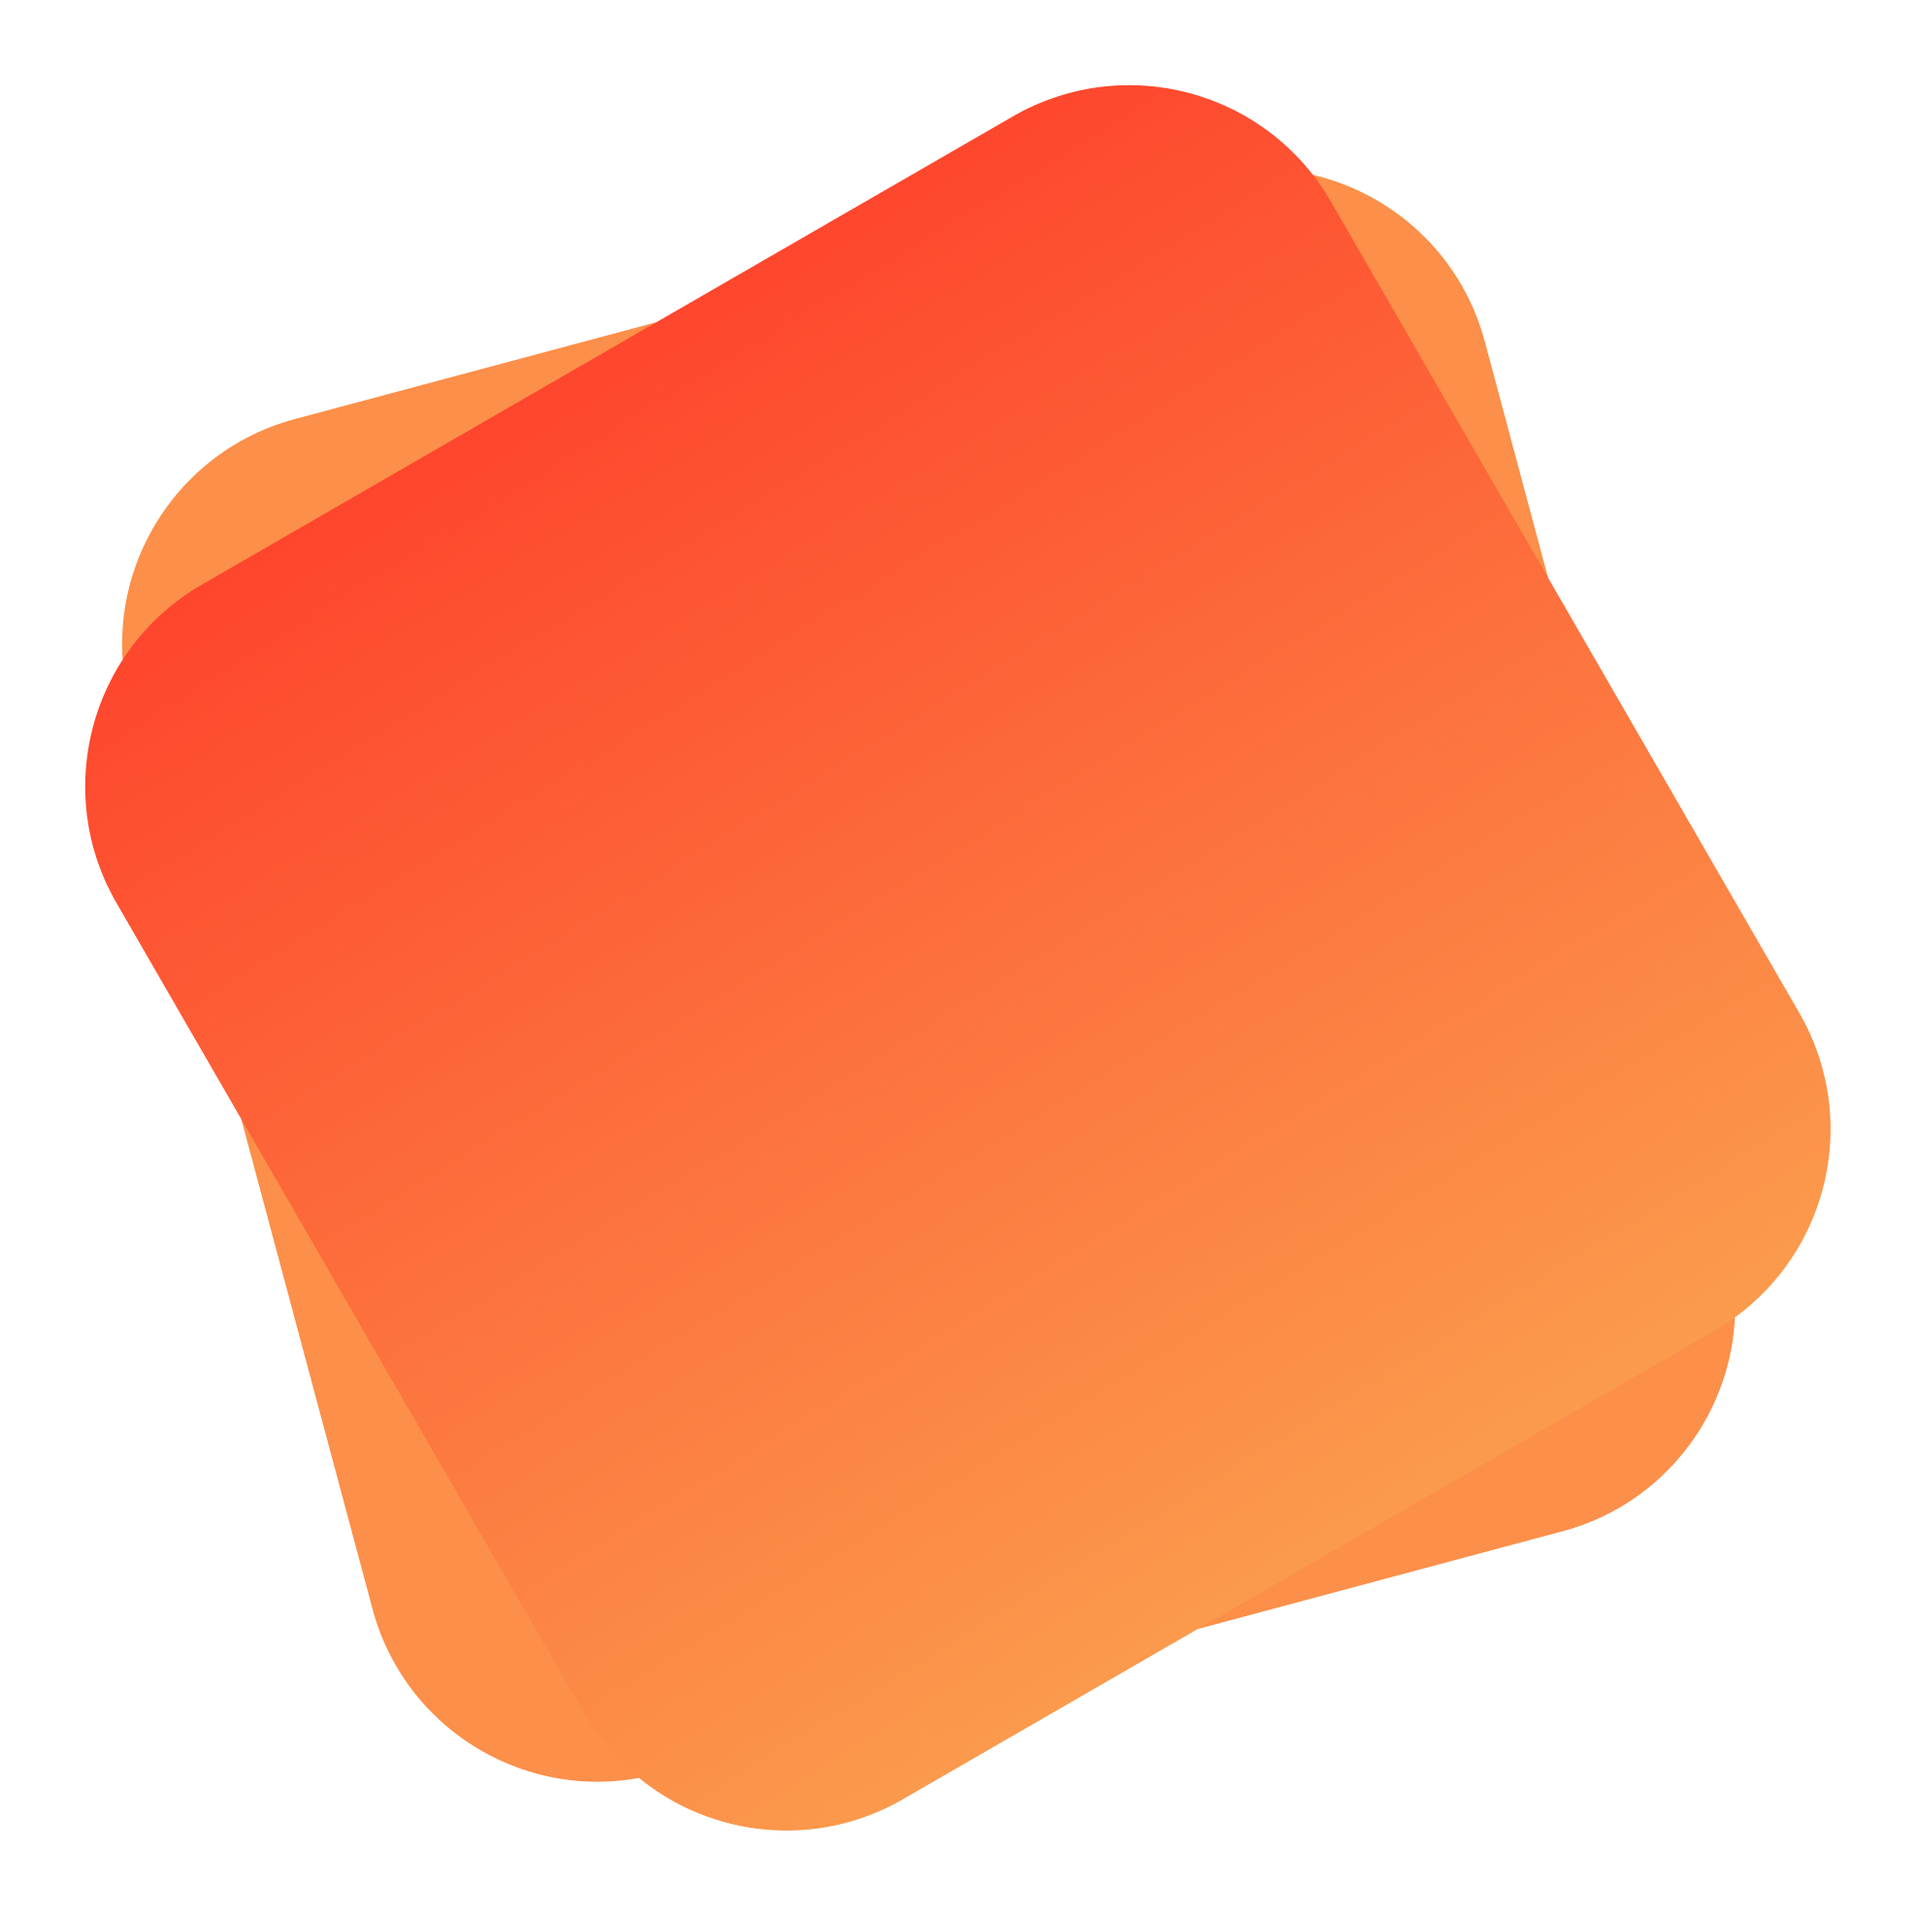
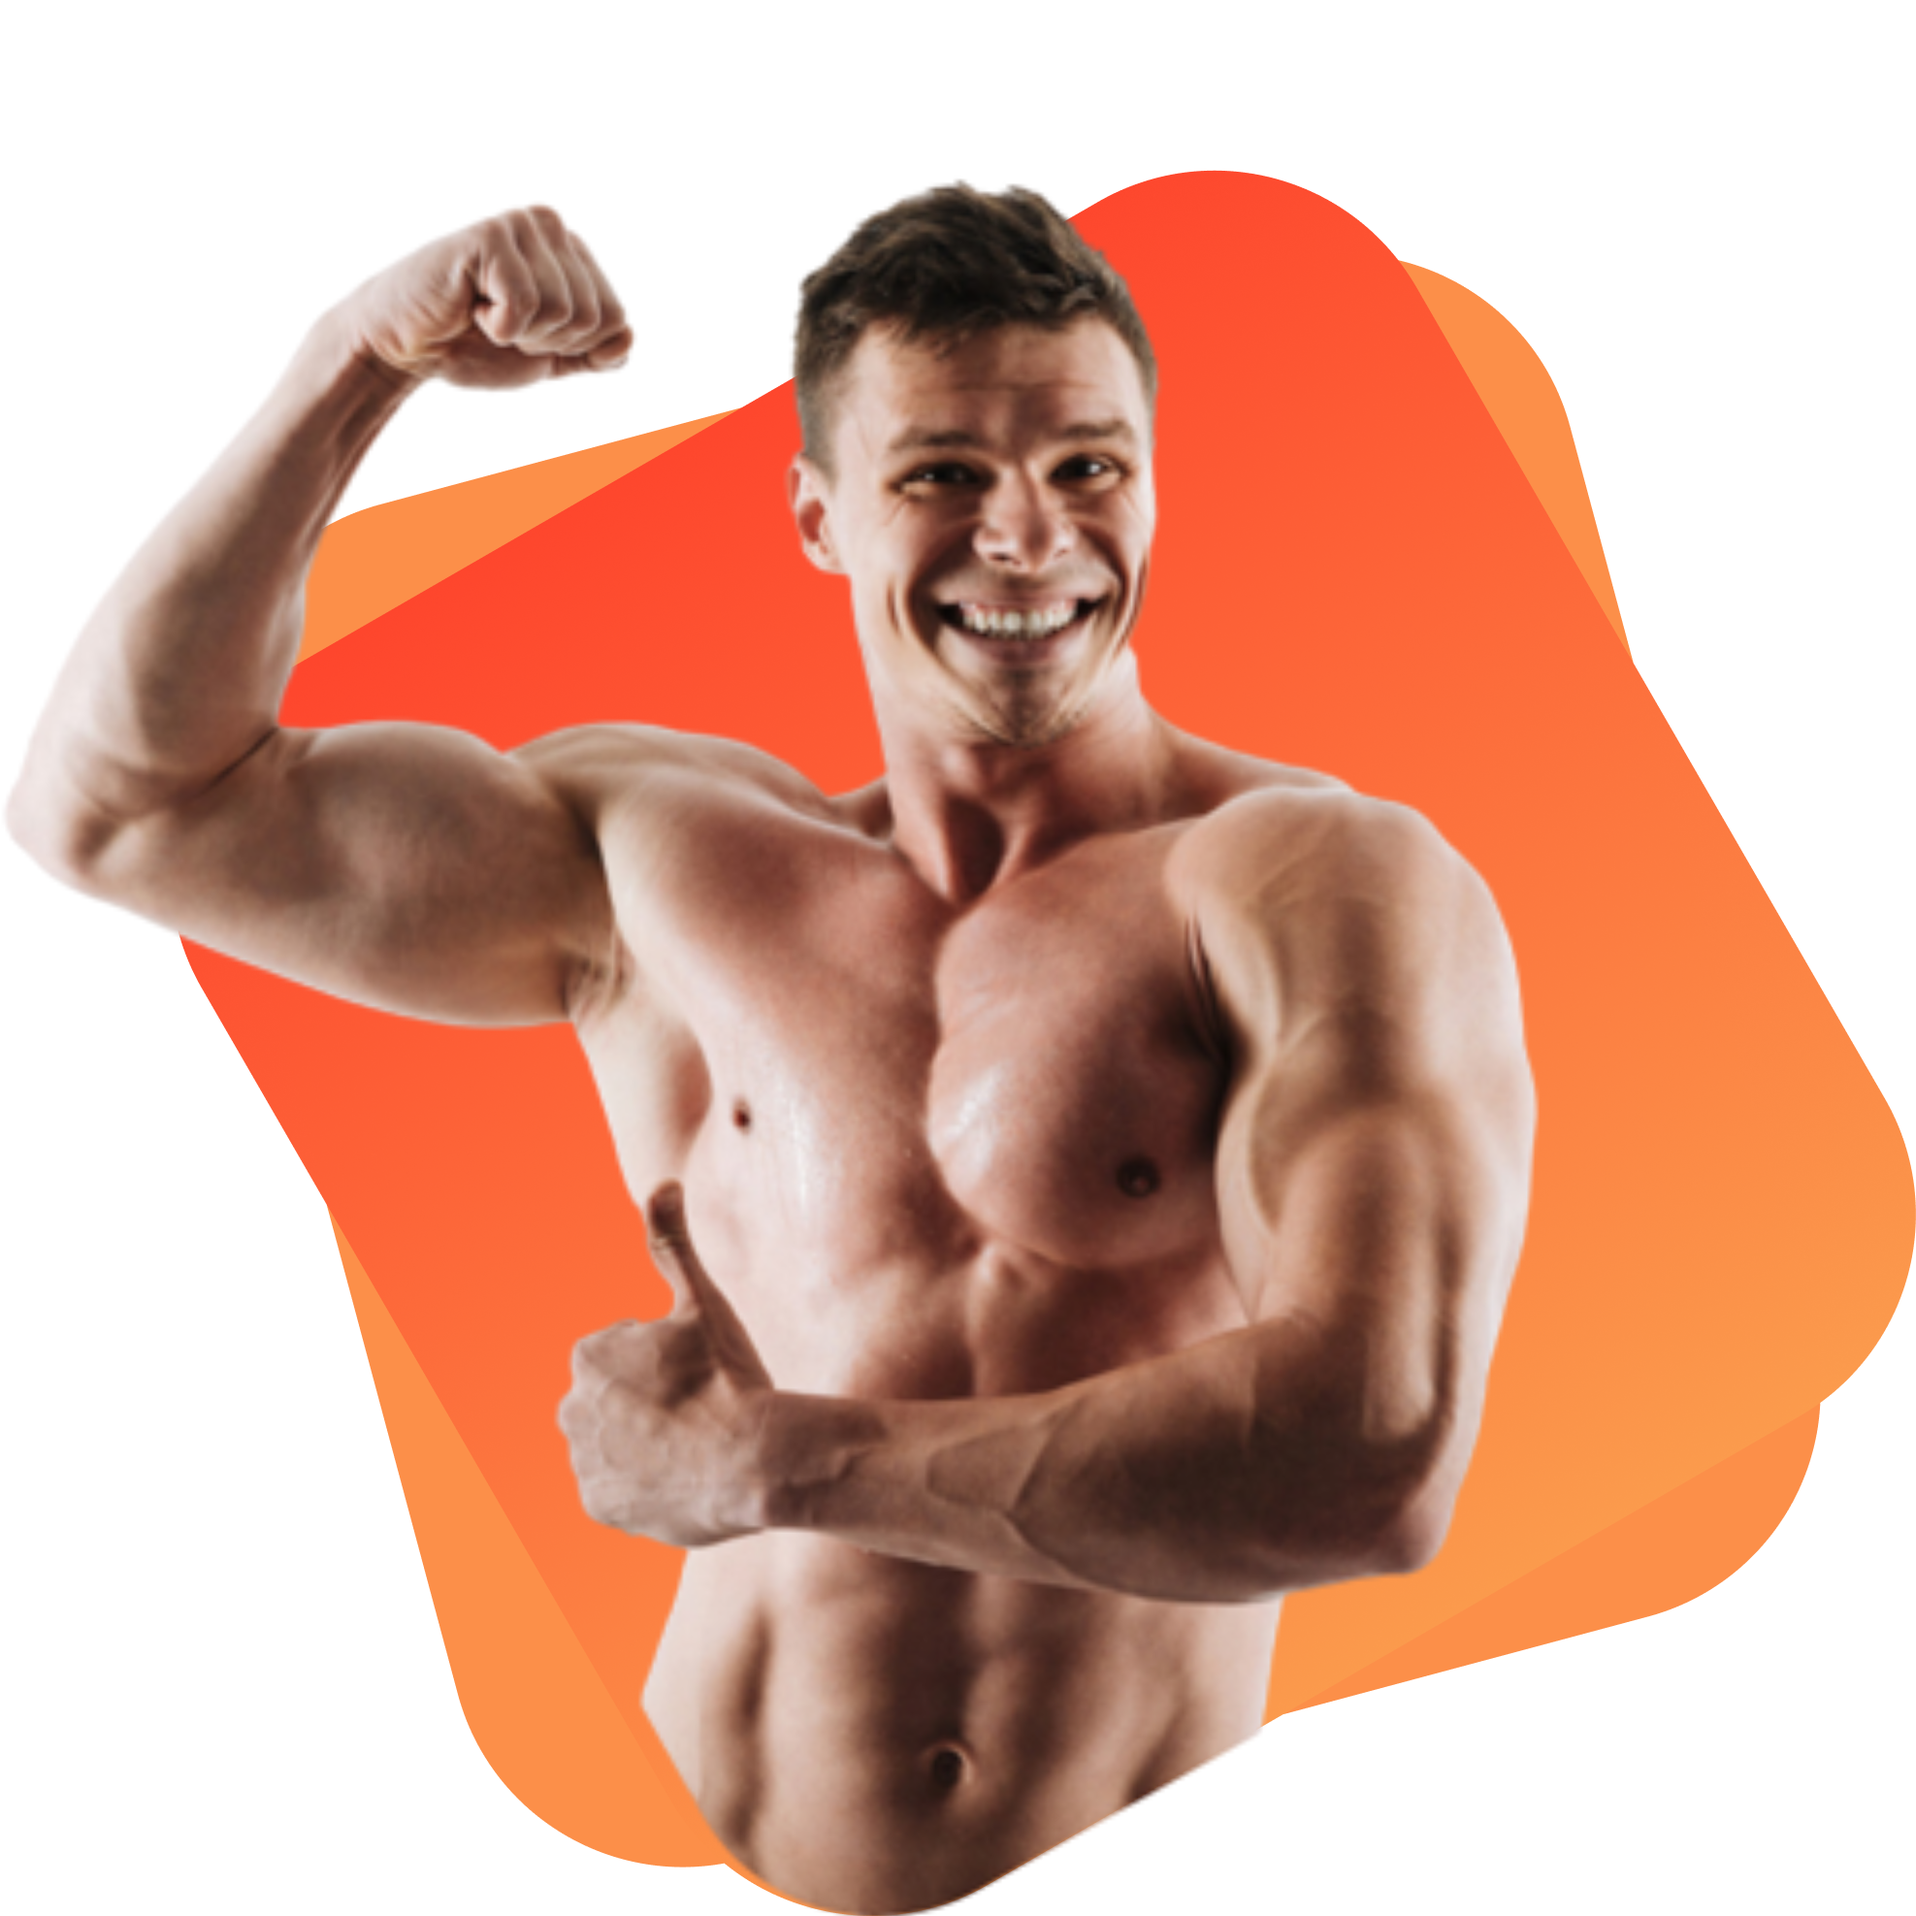
about

diff --git a/index.html b/index.html
@@ -9,18 +9,63 @@
     <link rel="stylesheet" href="style.css">
     <link rel="preconnect" href="https://fonts.googleapis.com">
     <link rel="preconnect" href="https://fonts.gstatic.com" crossorigin>
-    <link href="https://fonts.googleapis.com/css2?family=Poppins:ital@0;1&family=Roboto+Slab&display=swap"
+    <link
+        href="https://fonts.googleapis.com/css2?family=Libre+Baskerville&family=Poppins:ital@0;1&family=Roboto+Slab&display=swap"
         rel="stylesheet">
 </head>
 
 <body>
-    <section>
-        <div>
+    <section class="body">
+        <div class="fst-pera">
             <h1> <span>Skip</span> The Diet, <br>
                 Just Eat Healthy <br>
                 With Food Network</h1>
             <p>Imagin you don't need a diet because we provide healthy and delicious food for you!</p>
-            <img src="" alt="">
+            <a class="button" target="_blank" href="https://www.facebook.com/profile.php?id=100076377504012">Order
+                Food</a>
+
+        </div>
+        <div class="image">
+            <img src="female/Group 8425.png" alt="">
+        </div>
+    </section>
+
+    <section class="about">
+        <div class="sec-image">
+            <img src="female/sec.png" alt="">
+        </div>
+        <div class="sec-pera">
+            <h1> About Me</h1>
+            <p>Lorem ipsum dolor sit amet, consectetur adipiscing <br>
+                elit. Condimentum diam orci pretium a pharetra, <br>
+                feugiat cursus. Dictumst risus, sem egestas odio cras <br>
+                adipiscing vulputate. Nisi, risus in suscipit non. Non <br>
+                commodo volutpat, pharetra, vel.</p>
+            <a class="button-contact" target="_blank" href="">Contact me</a>
+        </div>
+    </section>
+    <section class="recipies">
+        <div>
+            <h1>My recipies</h1>
+            <p>Lorem Ipsum is simply dummy text of the printing and typesetting industry.
+                Lorem Ipsum has been the industry's <br> standard dummy text ever since the
+                1500s.</p>
+        </div>
+        <div class="bap">
+            <div id="red" class="recipe">
+                <img src="food/Project Cover.jpg" alt="">
+                <h2>Recipie Title</h2>
+                <p>Lorem Ipsum is simply dummy text of the printing and <br>
+                    typesetting industry. Lorem Ipsum has been the industry's <br>
+                    standard dummy text ever since the 1500s.</p>
+            </div>
+            <div id="black" class="recipe">
+                <img src="food/Project Cover5.png" alt="">
+                <h2>Recipie Title</h2>
+                <p>Lorem Ipsum is simply dummy text of the printing and <br>
+                    typesetting industry. Lorem Ipsum has been the industry's <br>
+                    standard dummy text ever since the 1500s.</p>
+            </div>
         </div>
     </section>
 

diff --git a/style.css b/style.css
@@ -1,9 +1,102 @@
 body {
     font-family: 'Poppins', sans-serif;
+    margin: 0px;
+
 }
 
-h1 {}
+h1 {
+    font-size: 60px;
+}
+
+.fst-pera {
+    margin-bottom: 20px;
+}
 
 span {
-    color: orangered;
+    color: tomato;
+}
+
+.body {
+    display: flex;
+    margin-bottom: 230px;
+    align-items: center;
+}
+
+.image img {
+    width: 100%;
+}
+
+.button {
+    text-decoration: none;
+    color: #fff;
+    font-weight: 700;
+    background-image: linear-gradient(tomato, orangered);
+    padding: 10px 30px;
+    border-radius: 5px;
+}
+
+.fst-pera {
+    width: 50%;
+    padding-top: 10%;
+    padding-left: 10%;
+
+}
+
+.about {
+    display: flex;
+    background-image: url(shapes/Frame\ 59.jpg);
+    height: 700px;
+    width: 100%;
+    background-size: cover;
+    background-repeat: no-repeat;
+    background-position: center;
+    padding-left: 0%;
+    justify-content: space-around;
+}
+
+.sec-pera {
+    padding-top: 5%;
+}
+
+.sec-image img {
+    height: 700px;
+
+}
+
+.button-contact {
+    text-decoration: none;
+    color: #fff;
+    font-weight: 700;
+    background-image: linear-gradient(tomato, orangered);
+    padding: 10px 30px;
+    border-radius: 5px;
+}
+
+.recipies {
+    text-align: center;
+    color: gray;
+
+}
+
+.bap {
+    display: flex;
+    justify-content: space-around;
+}
+
+.recipe {
+    width: 50%;
+    height: 50%;
+    top: 1771px;
+    margin-left: 10px;
+    margin-right: 10px;
+    padding-left: 20px;
+    border-radius: 30px;
+    box-shadow: 10px 10px 40px;
+    color: black;
+}
+
+.recipe img {
+    width: 50%;
+    height: 308px;
+    padding-top: 2%;
 }
